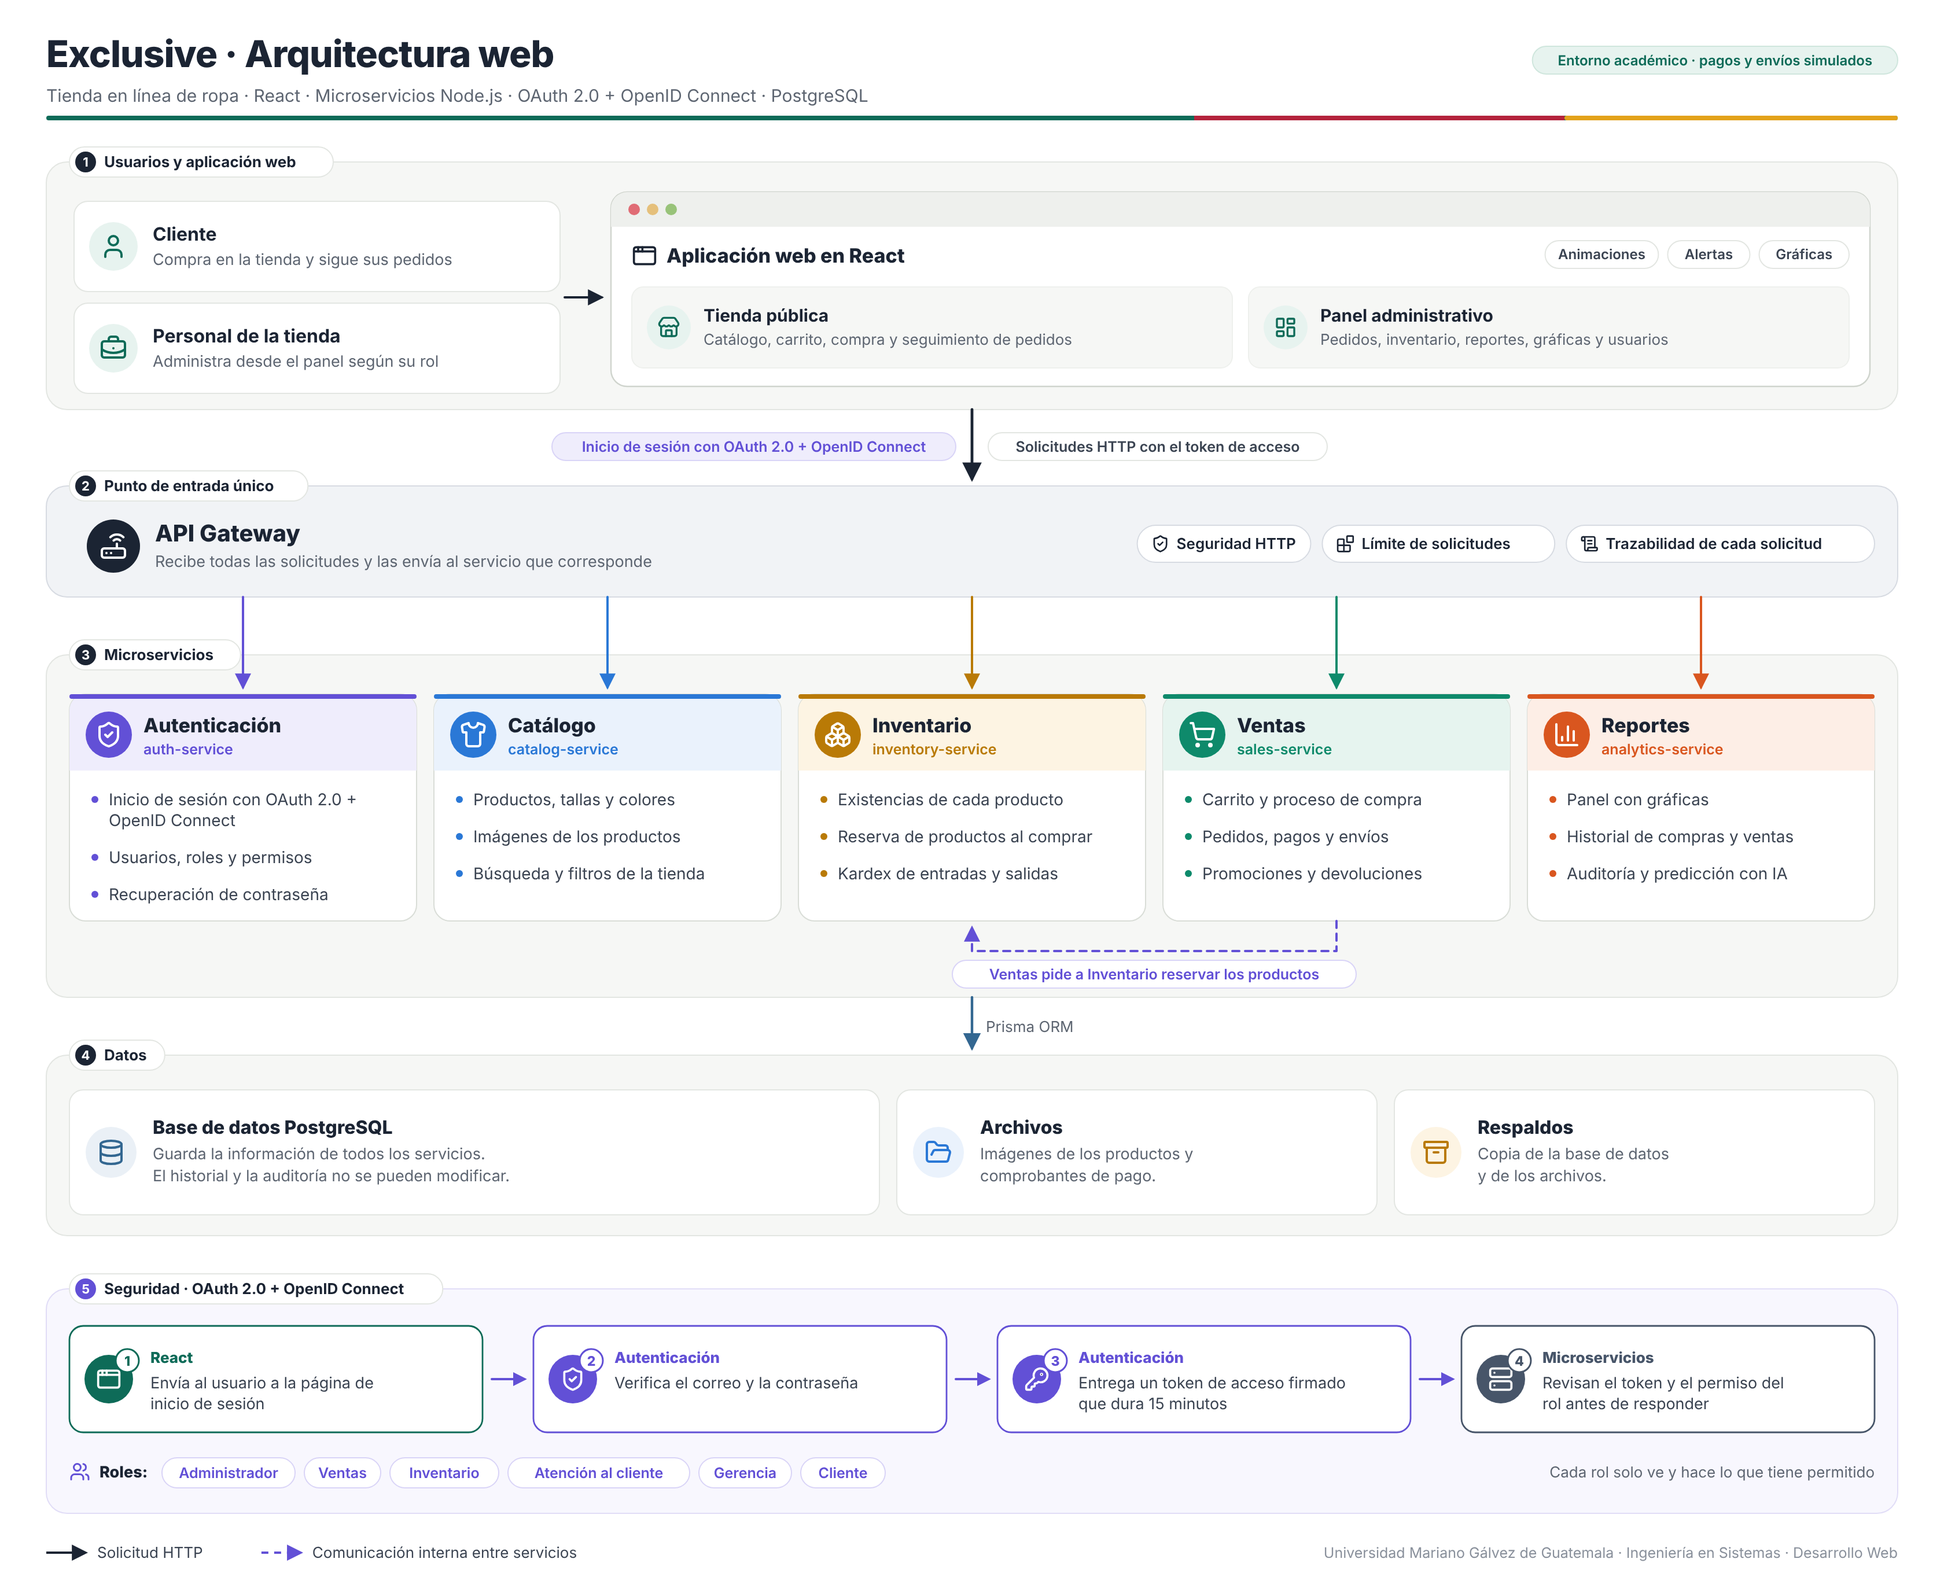
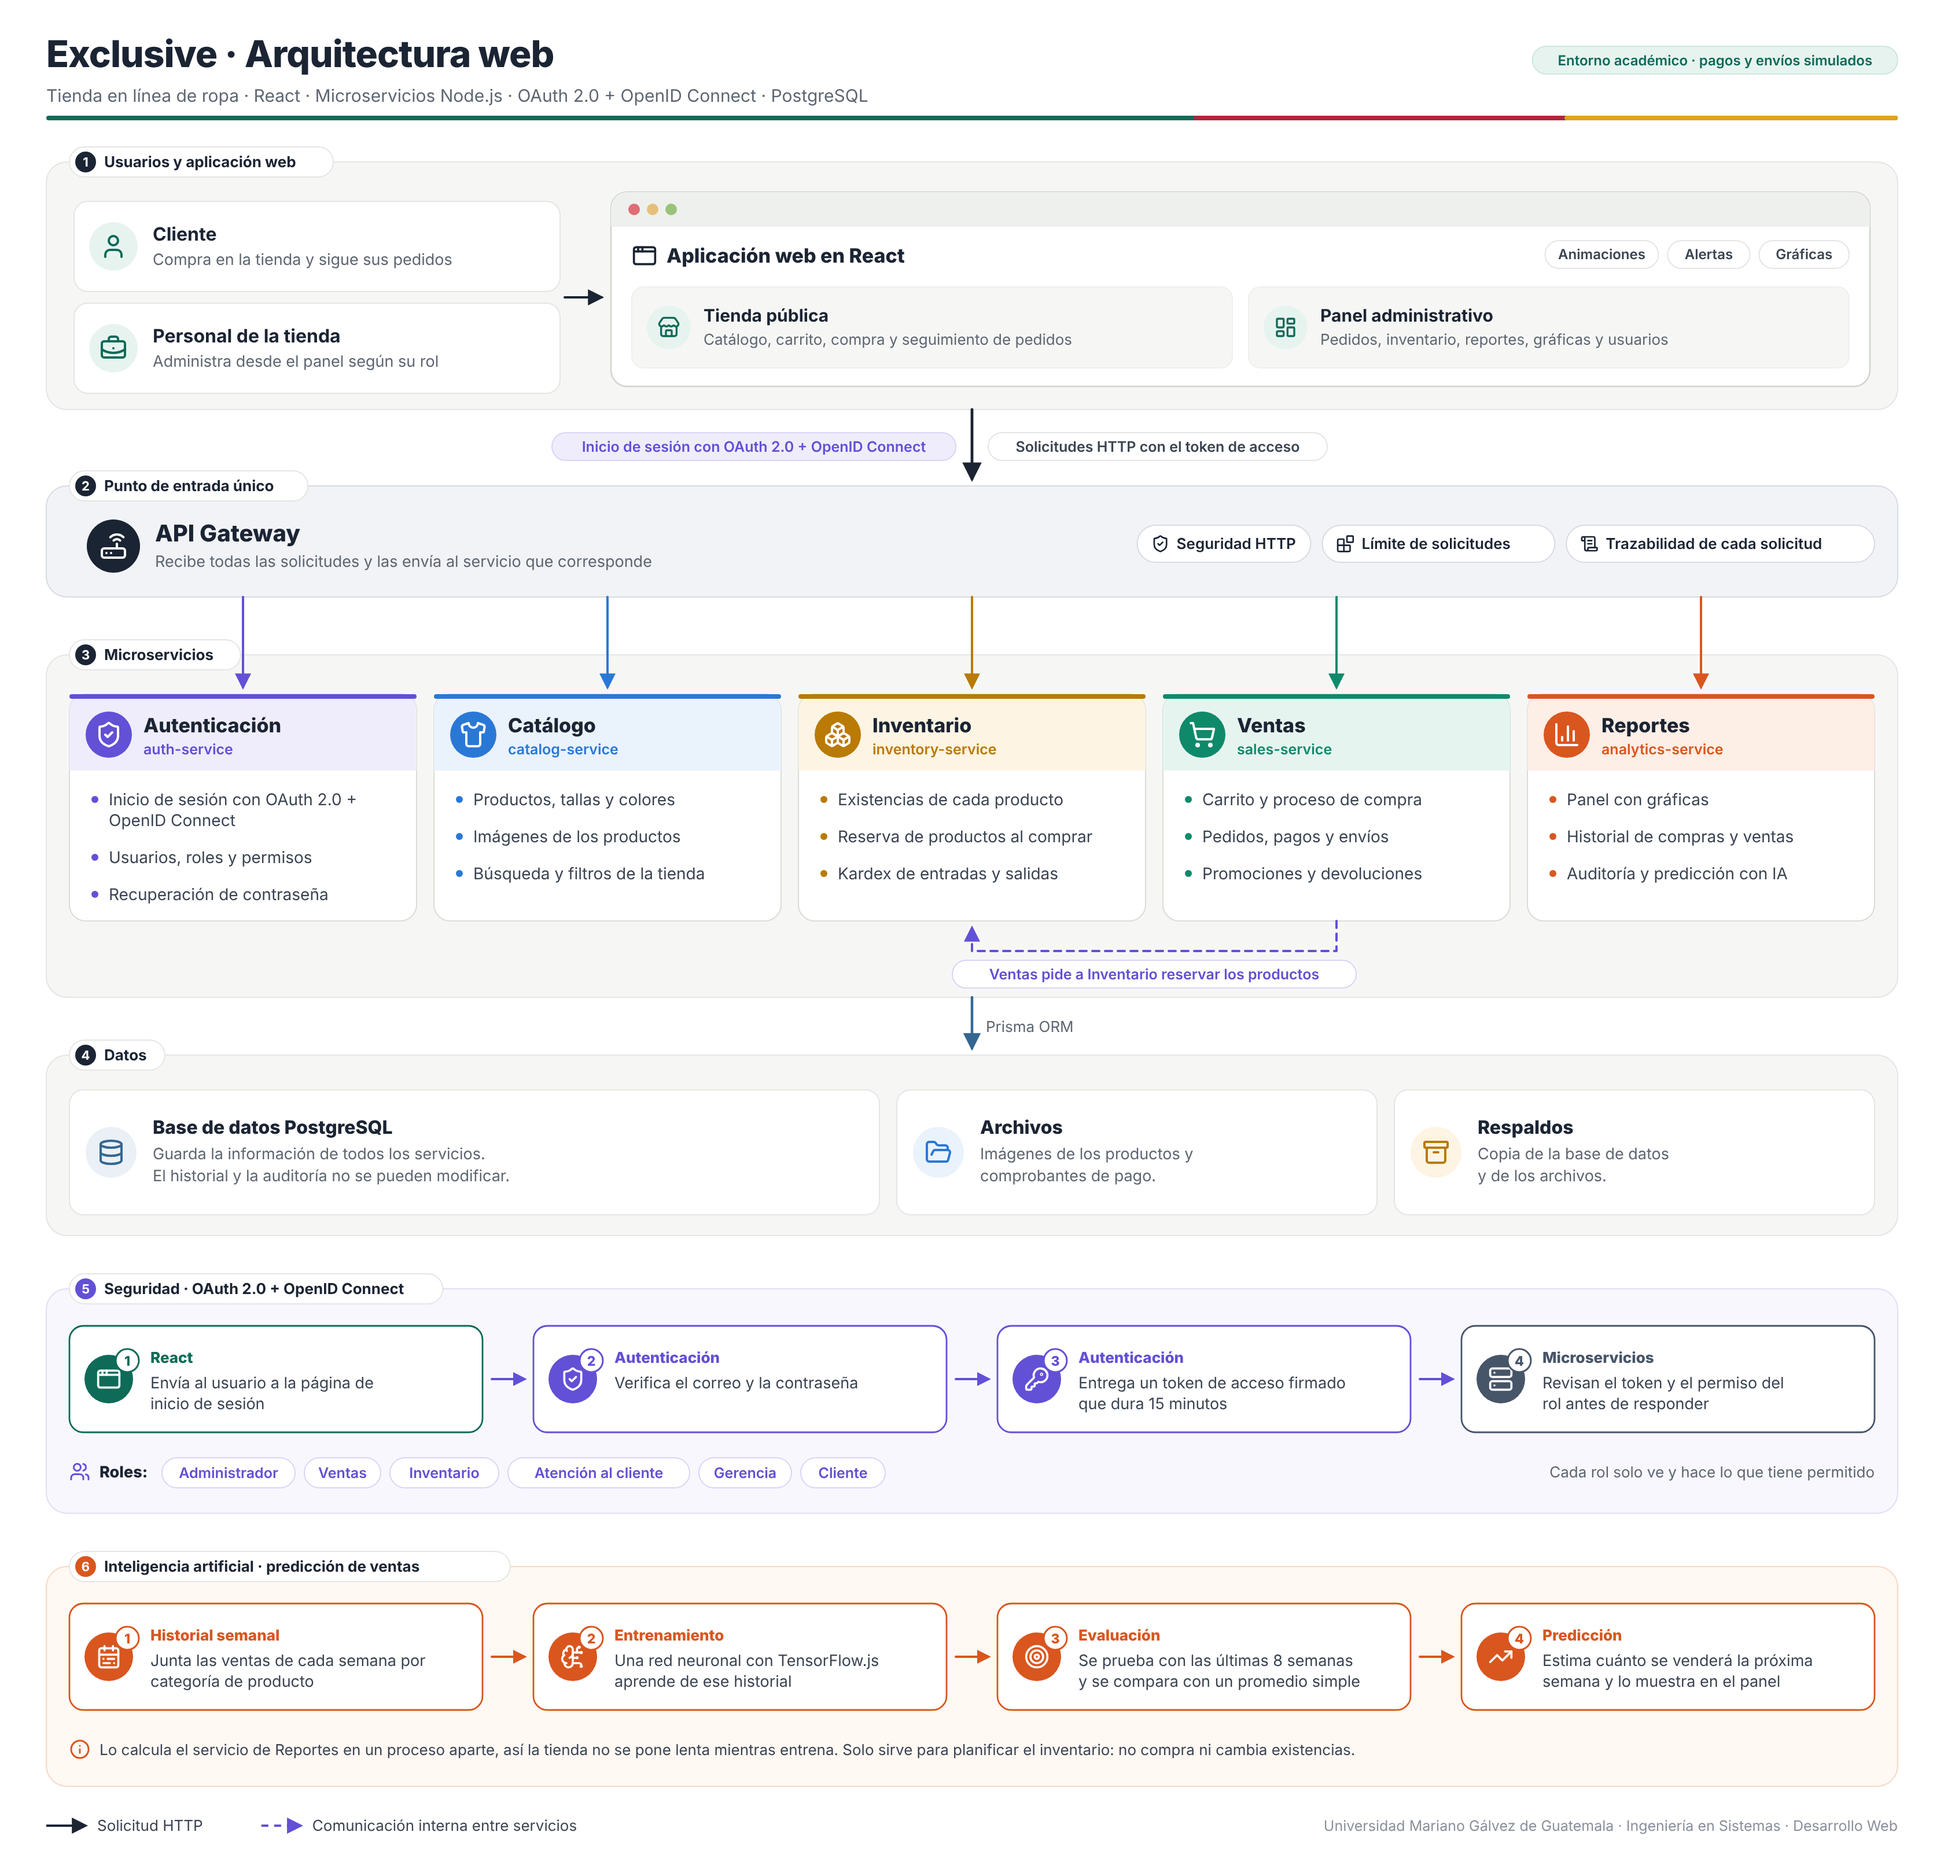
Arquitectura web del sistema

diff --git a/docs/arquitectura-web.md b/docs/arquitectura-web.md
@@ -31,6 +31,7 @@ escuchan solo en `127.0.0.1`, así que no son accesibles desde otros equipos de 
 | 3⃣ | ⚙ **Microservicios** | Autenticación, catálogo, inventario, ventas y analítica | Node.js 20.19+ (recomendado 22), Express 5, oidc-provider, sharp, pdfkit, TensorFlow.js |
 | 4⃣ | 🗄 **Datos** | Base de datos, imágenes, comprobantes, registros y respaldos | PostgreSQL 14+, sistema de archivos |
 | 5⃣ | 🔐 **Seguridad** | Cómo OAuth 2.0 y OpenID Connect protegen todas las capas anteriores | oidc-provider, oidc-client-ts, jose, bcrypt |
+| 6⃣ | 🤖 **Inteligencia artificial** | Predicción de las ventas de la próxima semana por categoría | TensorFlow.js |
 
 ---
 
@@ -348,7 +349,7 @@ Explicación completa con tokens reales decodificados y respuestas de error: [oa
 
 ---
 
-## 🤖 Inteligencia artificial
+## 6⃣ 🤖 Inteligencia artificial
 
 1. **Historial semanal:** suma por categoría las unidades vendidas cada semana (lunes a domingo), restando devoluciones y sin contar cancelaciones.
 2. **Entrenamiento** en un proceso aparte con **TensorFlow.js**: un conjunto de 5 redes neuronales pequeñas, que usan las 4 semanas anteriores, la época del año, la tendencia y la categoría.
